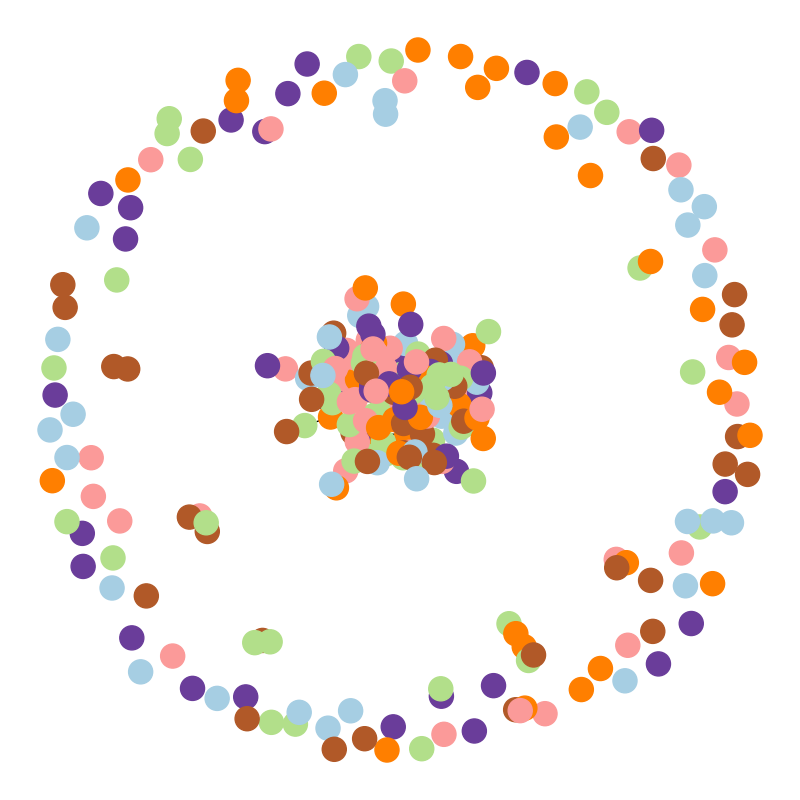
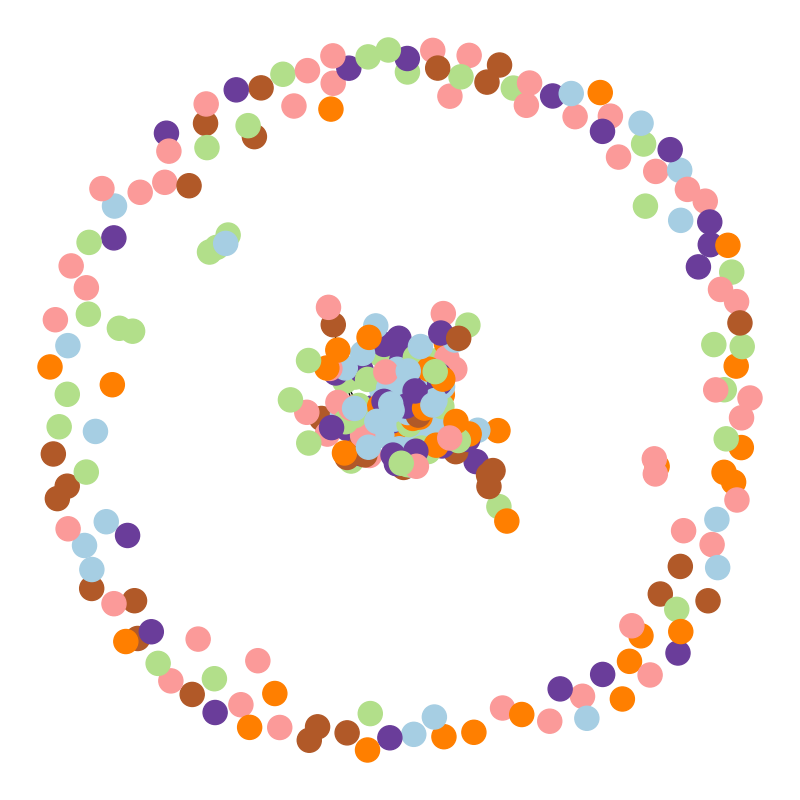
- Fuzzy clustering is now working

diff --git a/generate_data.py b/generate_data.py
@@ -1,5 +1,5 @@
-import numpy as np
 import networkx as nx
+import numpy as np
 
 
 def skills_gen(skills_sets, N, min_skill_sets, max_skill_sets, min_edits, max_edits):
@@ -15,7 +15,7 @@ def skills_gen(skills_sets, N, min_skill_sets, max_skill_sets, min_edits, max_ed
 
     for _ in range(N):
         user_skills = np.zeros((len(all_skills)), dtype=bool)
-        user_skills = 1*user_skills
+        # user_skills = 1*user_skills
         nb_skill_sets = np.random.randint(min_skill_sets, max_skill_sets)
         skills_sets_indices = np.random.choice(
             range(len(skills_sets)), nb_skill_sets)
@@ -34,10 +34,10 @@ def skills_gen(skills_sets, N, min_skill_sets, max_skill_sets, min_edits, max_ed
 
             a = np.zeros((len(user_skills)))
             nonzero_idxs = np.where(user_skills != 0)[0]
-            a[nonzero_idxs] = nbTrue
+            a[user_skills] = nbTrue
             a[np.logical_not(user_skills)] = nbFalse
-            #p = np.array(user_skills)
-            #p /= p.sum()
+            # p = np.array(user_skills)
+            # p /= p.sum()
             p = np.full(len(user_skills), 0.5) / a
 
             i = np.random.choice(range(len(all_skills)), p=p)
@@ -67,7 +67,7 @@ def skills_gen_fz(skills_sets, N, min_skill_sets, max_skill_sets, min_edits, max
     skills_lv = [0.1, 0.2, 0.3, 0.4, 0.5, 0.6, 0.7, 0.8, 0.9, 1]
 
     for _ in range(N):
-        user_skills = np.zeros((len(all_skills)), dtype=float)
+        user_skills = np.zeros((len(all_skills)), dtype=bool)
 
         nb_skill_sets = np.random.randint(min_skill_sets, max_skill_sets)
         skills_sets_indices = np.random.choice(
@@ -77,7 +77,7 @@ def skills_gen_fz(skills_sets, N, min_skill_sets, max_skill_sets, min_edits, max
             skill_set = skills_sets[s]
             for skill in skill_set:
                 i = all_skills.index(skill)
-                user_skills[i] = np.random.choice(skills_lv)
+                user_skills[i] = 1
 
         nb_edits = np.random.randint(min_edits, max_edits)
         for _ in range(nb_edits):
@@ -87,14 +87,14 @@ def skills_gen_fz(skills_sets, N, min_skill_sets, max_skill_sets, min_edits, max
 
             a = np.zeros((len(user_skills)))
             nonzero_idxs = np.where(user_skills != 0)[0]
-            a[nonzero_idxs] = nbTrue
+            a[user_skills] = nbTrue
             a[np.logical_not(user_skills)] = nbFalse
-            p = np.array(user_skills)
-            p /= p.sum()  # normalize
-            #p = np.full((len(user_skills)), 0.5) / a
+            # p = np.array(user_skills)
+            # p /= p.sum()
+            p = np.full(len(user_skills), 0.5) / a
 
             i = np.random.choice(range(len(all_skills)), p=p)
-            user_skills[i] = np.random.choice(skills_lv)
+            user_skills[i] ^= 1
 
         users_skills_fz.append(user_skills)
         clusters_ground_truth.append(skills_sets_indices[0])
@@ -104,15 +104,6 @@ def skills_gen_fz(skills_sets, N, min_skill_sets, max_skill_sets, min_edits, max
 
     return users_skills_fz, clusters_ground_truth
 
-def testfz(N):
-    X = np.concatenate((
-        np.random.normal((-2, -2), size=(N, 2)),
-        np.random.normal((2, 2), size=(N, 2)),
-        np.random.normal((9, 0), size=(N, 2)),
-        np.random.normal((5, -8), size=(N, 2))
-    ))
-
-    return X
 
 def generate_graph(clusters_ground_truth, cluster_boost=3, m=2):
     """Creating a graph according to the PREFERENTIAL ATTACHMENT MODEL
@@ -132,7 +123,7 @@ def generate_graph(clusters_ground_truth, cluster_boost=3, m=2):
         P_degrees = degrees / degrees.sum()
         # prefer to attach to people in it's own cluster
         P_cluster = np.array([cluster_boost if clusters_ground_truth[node]
-                              == cluster else 1 / cluster_boost for node in candidates])
+                                               == cluster else 1 / cluster_boost for node in candidates])
         P = P_degrees * P_cluster
 
         while G.degree[c_node] < m:

diff --git a/main.py b/main.py
@@ -1,8 +1,7 @@
 import numpy as np
-from scipy.spatial.distance import cdist
+from matplotlib import pyplot as plt
 from sklearn.decomposition import PCA
 
-from matplotlib import pyplot as plt
 from clustering import clustering, evaluate_clustering, fzclustering
 from generate_data import skills_gen, generate_graph, skills_gen_fz
 from misc import plot_graph
@@ -38,19 +37,19 @@ def use_case_fuzzy_cmean(users_skills, clusters_ground_truth):
     print("Clustering")
 
     fuzzy_skills = users_skills.astype(np.float)
-
+    skills_lv = [0, 0.1, 0.2, 0.3, 0.4, 0.5, 0.6, 0.7, 0.8, 0.9, 1]
     for i in range(len(fuzzy_skills)):
         for j in range(fuzzy_skills.shape[1]):
             if fuzzy_skills[i, j] != 0:
-                fuzzy_skills[i, j] = abs(np.random.uniform(0.2, 1))
+                fuzzy_skills[i, j] = np.random.choice(skills_lv)
 
-    fuzzyclustering_model = fzclustering(fuzzy_skills, range(*clustering_range), True)
+    fuzzyclustering_model = fzclustering(users_skills, range(*clustering_range), True)
     # returned values with order
     # Cluster centers. Data for each center along each feature provided for every cluster (of the c requested clusters).
     print("- Number of clusters found", len(fuzzyclustering_model[0]))
     print("- Real number of clusters", len(skills_sets))
 
-    print("Evaluate fuzzy clustering ", evaluate_clustering(clusters_ground_truth, fuzzyclustering_model[1]))
+    evaluate_clustering(clusters_ground_truth, fuzzyclustering_model[1])
 
     pca = PCA(n_components=2)
     #
@@ -65,7 +64,6 @@ def use_case_fuzzy_cmean(users_skills, clusters_ground_truth):
     plt.scatter(new_data.T[0], new_data.T[1], c=c, alpha=0.5)
     plt.show()
 
-
     # print("Plotting graph")
     plot_graph(G, "Clustered_graph_fuzzy.png", colors=fuzzyclustering_model[1])
 
@@ -76,7 +74,7 @@ def use_case_kmeans(users_skills, clusters_ground_truth):
     print("- Number of clusters found", len(clustering_model.cluster_centers_))
     print("- Real number of clusters", len(skills_sets))
 
-    print("Kmenas mujtual score", evaluate_clustering(clusters_ground_truth, clustering_model.labels_))
+    evaluate_clustering(clusters_ground_truth, clustering_model.labels_)
 
     pca = PCA(n_components=2)
     #
@@ -92,7 +90,7 @@ def use_case_kmeans(users_skills, clusters_ground_truth):
     plt.show()
 
     # print("Plotting graph")
-    plot_graph(G, "Clustered_graph_K-Means.png", colors=clustering_model.labels_)
+    # plot_graph(G, "Clustered_graph_K-Means.png", colors=clustering_model.labels_)
 
 
 if __name__ == '__main__':
@@ -103,24 +101,17 @@ if __name__ == '__main__':
     users_skills_fz, clusters_ground_truth_fz = skills_gen_fz(
         skills_sets, N, min_skill_sets, max_skill_sets, min_edits, max_edits)
 
-    # pca = PCA(n_components=2)
-    # pca.fit(users_skills)
-    # new_data = pca.transform(users_skills)
-    # plt.scatter(new_data.T[0], new_data.T[1].T,  c=clusters_ground_truth, alpha=0.5)
-    # plt.show()
-
-    # print('pcaexplaned userskills', pca.explained_variance_ratio_)
-    # print('singular values', pca.singular_values_)
-
+    pca = PCA(n_components=2)
+    pca.fit(users_skills_fz)
+    new_data = pca.transform(users_skills_fz)
+    plt.scatter(new_data.T[0], new_data.T[1].T, c=clusters_ground_truth_fz, alpha=0.5)
+    plt.show()
 
     print("Generating graph")
-    G = generate_graph(clusters_ground_truth_fz)
+    G = generate_graph(clusters_ground_truth)
 
-    # print("Using KMeans")
-    #userdistances = use_case_kmeans(users_skills, clusters_ground_truth)
-    #print(userdistances)
-    # print("Using Fuzzy C-Means")
+    print("Using KMeans")
+    use_case_kmeans(users_skills, clusters_ground_truth)
 
-
-
-    use_case_fuzzy_cmean(users_skills, clusters_ground_truth)
+    print("Using Fuzzy C-Means")
+    use_case_fuzzy_cmean(users_skills_fz, clusters_ground_truth_fz)

diff --git a/clustering.py b/clustering.py
@@ -1,11 +1,11 @@
 import collections
 
 import numpy as np
-import skfuzzy as fuzz
 from matplotlib import pyplot as plt
 from sklearn.cluster import KMeans
 from sklearn.metrics import davies_bouldin_score, silhouette_score, calinski_harabasz_score
 from sklearn.metrics import normalized_mutual_info_score
+
 from fcm import FCM
 
 
@@ -88,7 +88,7 @@ def fzclustering(users_skills, n_clusters_range, plot=False):
     fzmodels_1 = {}
     fzmodels_2 = {}
 
-    models ={}
+    models = {}
     # The fuzzy partition coefficient (FPC)
     fpcs = []
     fpcs_2 = []
@@ -100,14 +100,14 @@ def fzclustering(users_skills, n_clusters_range, plot=False):
         # models[n_clusters_] = kmeans
         #
         # cntr, u, u0, d, jm, p, fpc = fuzz.cluster.cmeans(
-        #     np.transpose(X), n_clusters_, 2, error=0.005, maxiter=150, init=None)
+        #     np.transpose(X), n_clusters_, 1.4, error=0.005, maxiter=150, init=None)
         # fpcs.append(fpc)
         # # labels_
         # cluster_membership = np.argmax(u, axis=0)
         # fzmodels_1[n_clusters_] = cntr, u, u0, d, jm, p, fpc, cluster_membership
 
         # another library
-        fuzzy_fcm = FCM(n_clusters=n_clusters_, max_iter=150, m=1.01, error=1e-5, random_state=42)
+        fuzzy_fcm = FCM(n_clusters=n_clusters_, max_iter=150, m=1.4, error=1e-5, random_state=88)
         fuzzy_fcm.fit(X)
 
         fcm_centers = fuzzy_fcm.centers
@@ -120,12 +120,10 @@ def fzclustering(users_skills, n_clusters_range, plot=False):
 
         fzmodels_2[n_clusters_] = fcm_centers, fcm_labels, fuzzy_clustering_coeff
 
-        #print("")
-
-    #best_nun_cluster_1 = max(fzmodels_1.values(), key=lambda x: x[6])
+    # best_num_cluster_1 = max(fzmodels_1.values(), key=lambda x: x[6])
 
     best_centers_2 = max(fzmodels_2.values(), key=lambda x: x[2])
-    print("")
+
     if plot:
         plt.figure()
         plt.title(f"Fuzzy c-means over number of clusters")
@@ -137,4 +135,4 @@ def fzclustering(users_skills, n_clusters_range, plot=False):
         plt.savefig(f"clustering_Fuzzy_1.png")
         plt.close()
 
-    return fzmodels_2[6]
+    return best_centers_2

diff --git a/gentestings.py b/gentestings.py
@@ -1,8 +1,8 @@
-from sklearn.cluster import KMeans
 import numpy as np
+import skfuzzy as fuzz
 from fcmeans import FCM
 from matplotlib import pyplot as plt
-import skfuzzy as fuzz
+from sklearn.cluster import KMeans
 
 X = np.array([[1, 2, 4], [1, 4, 6], [1, 0, 7],
               [10, 2, 8], [10, 4, 9], [10, 0, 7]])
@@ -14,12 +14,10 @@ print(kmeans.predict(X))
 
 print(kmeans.cluster_centers_)
 
-
 fzcmeans = fuzz.cluster.cmeans(
-        X, 2, 2, error=0.005, maxiter=1000, init=None)
+    X, 2, 2, error=0.005, maxiter=1000, init=None)
 
 print(fzcmeans)
-
 
 fuzzy_fcm = FCM(n_clusters=2)
 fuzzy_fcm.fit(X)
@@ -29,8 +27,6 @@ fcm_labels = fuzzy_fcm.predict(X)
 
 print(fcm_centers)
 print(fcm_labels)
-
-
 
 colors = ['b', 'orange', 'g', 'r', 'c', 'm', 'y', 'k', 'Brown', 'ForestGreen']
 
@@ -43,7 +39,6 @@ centers = [[4, 2],
 sigmas = [[0.8, 0.3],
           [0.3, 0.5],
           [1.1, 0.7]]
-
 
 xpts = np.zeros(1)
 ypts = np.zeros(1)
@@ -83,7 +78,6 @@ for ncenters, ax in enumerate(axes1.reshape(-1), 2):
     ax.axis('off')
 
 fig1.tight_layout()
-
 
 n_samples = 3000
 

diff --git a/fuzzytest_1.py b/fuzzytest_1.py
@@ -1,14 +1,9 @@
-from fcmeans import FCM
-from sklearn.datasets import make_blobs
-from matplotlib import pyplot as plt
-
 import numpy as np
-from scipy.spatial.distance import dice, cdist
+from fcmeans import FCM
+from matplotlib import pyplot as plt
+from scipy.spatial.distance import dice
 
 from generate_data import skills_gen, generate_graph
-from clustering import clustering, evaluate_clustering
-from misc import plot_graph
-
 
 np.set_printoptions(formatter={"float": lambda x: "{0:0.2f}".format(x)})
 
@@ -43,7 +38,6 @@ users_skills, clusters_ground_truth = skills_gen(
 print("Generating graph")
 G = generate_graph(N, K, P, seed)
 
-
 n_samples = 3000
 
 X = np.concatenate((
@@ -58,7 +52,6 @@ fz_kmeans.fit(X)
 # outputs
 fcm_centers = fz_kmeans.centers
 fcm_labels = fz_kmeans.u.argmax(axis=1)
-
 
 # plot result
 f, axes = plt.subplots(1, 2, figsize=(11, 5))

diff --git a/testfuzzy.py b/testfuzzy.py
@@ -36,7 +36,6 @@ users_skills, clusters_ground_truth = skills_gen(
 print("Generating graph")
 G = generate_graph(clusters_ground_truth)
 
-
 # Define three cluster centers
 centers = [[4, 2],
            [1, 7],
@@ -67,7 +66,6 @@ X_test = np.concatenate((
     np.random.normal((9, 0), size=(n_samples, 2)),
     np.random.normal((5, -8), size=(n_samples, 2))
 ))
-
 
 plt.figure(figsize=(5, 5))
 plt.scatter(X_test[:, 0], X_test[:, 1], alpha=.1)

diff --git a/fcm.py b/fcm.py
@@ -1,5 +1,6 @@
 import numpy as np
 
+
 class FCM:
     """Fuzzy C-means
 

diff --git a/README.md b/README.md
@@ -1,3 +1,3 @@
 # fuzzyclustering
-Fuzzy and hard clustering comparison
-Fuzzy System Engineering
+
+Fuzzy and hard clustering comparison Fuzzy System Engineering
